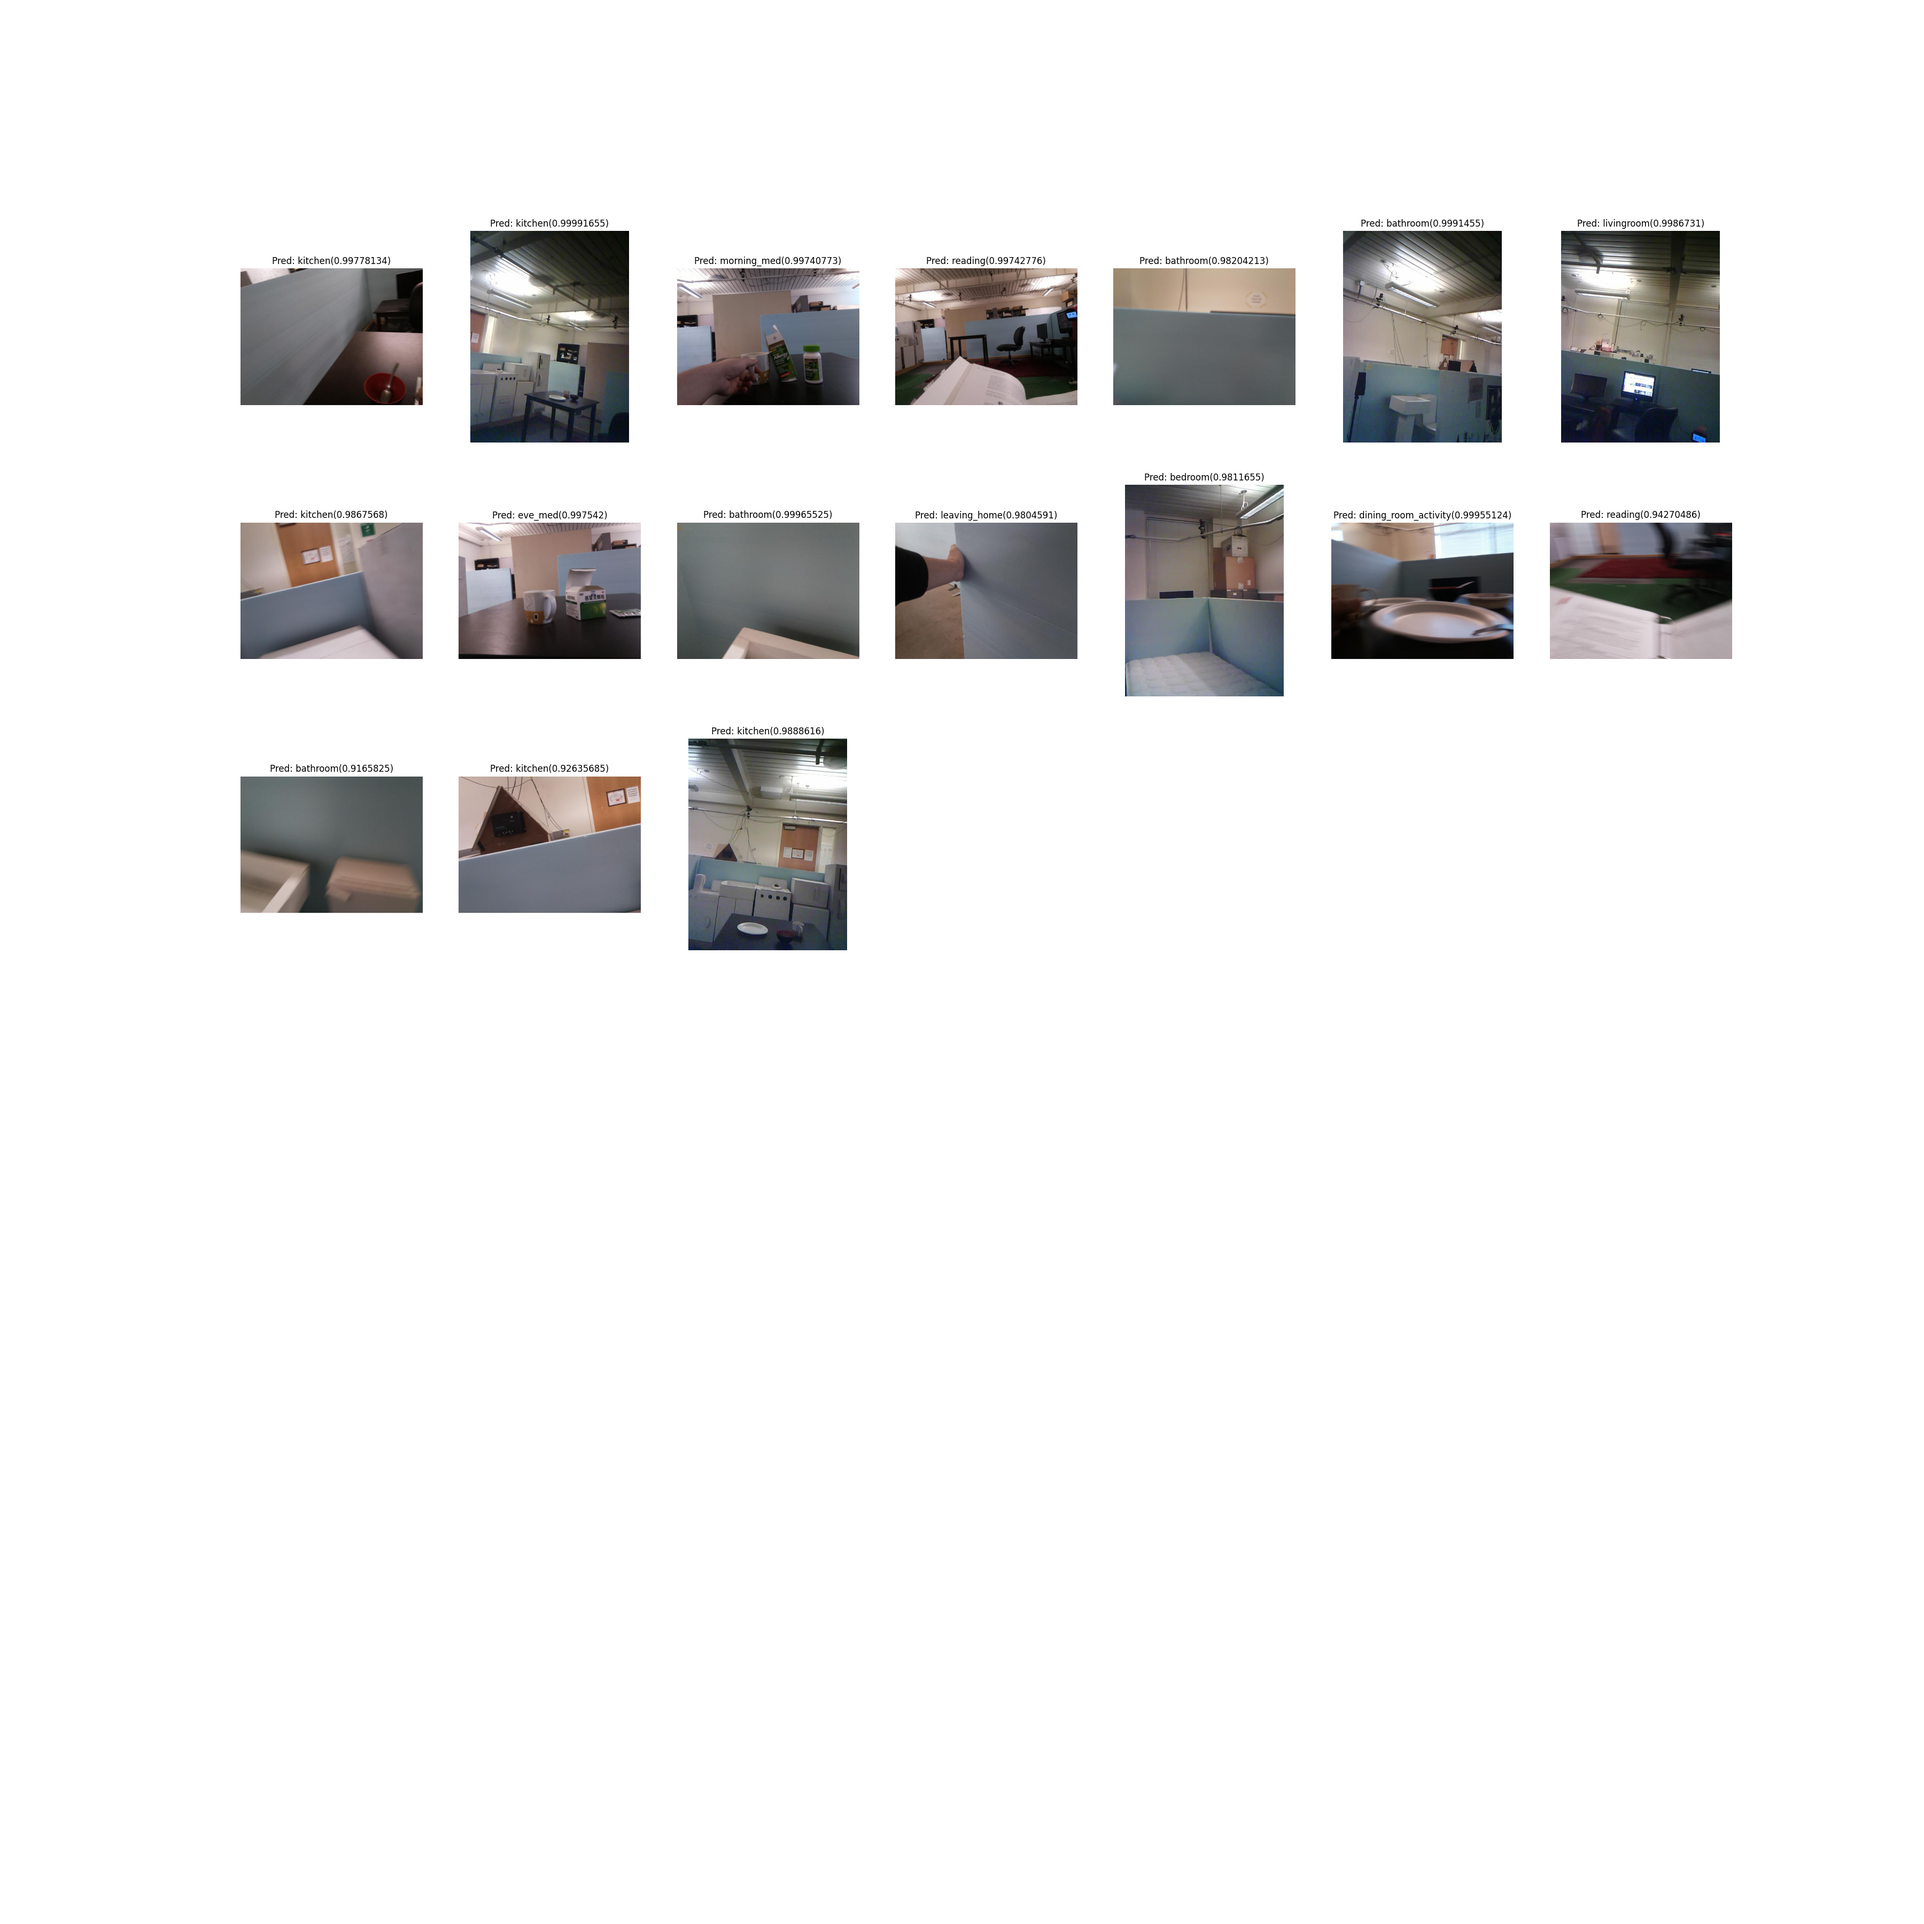
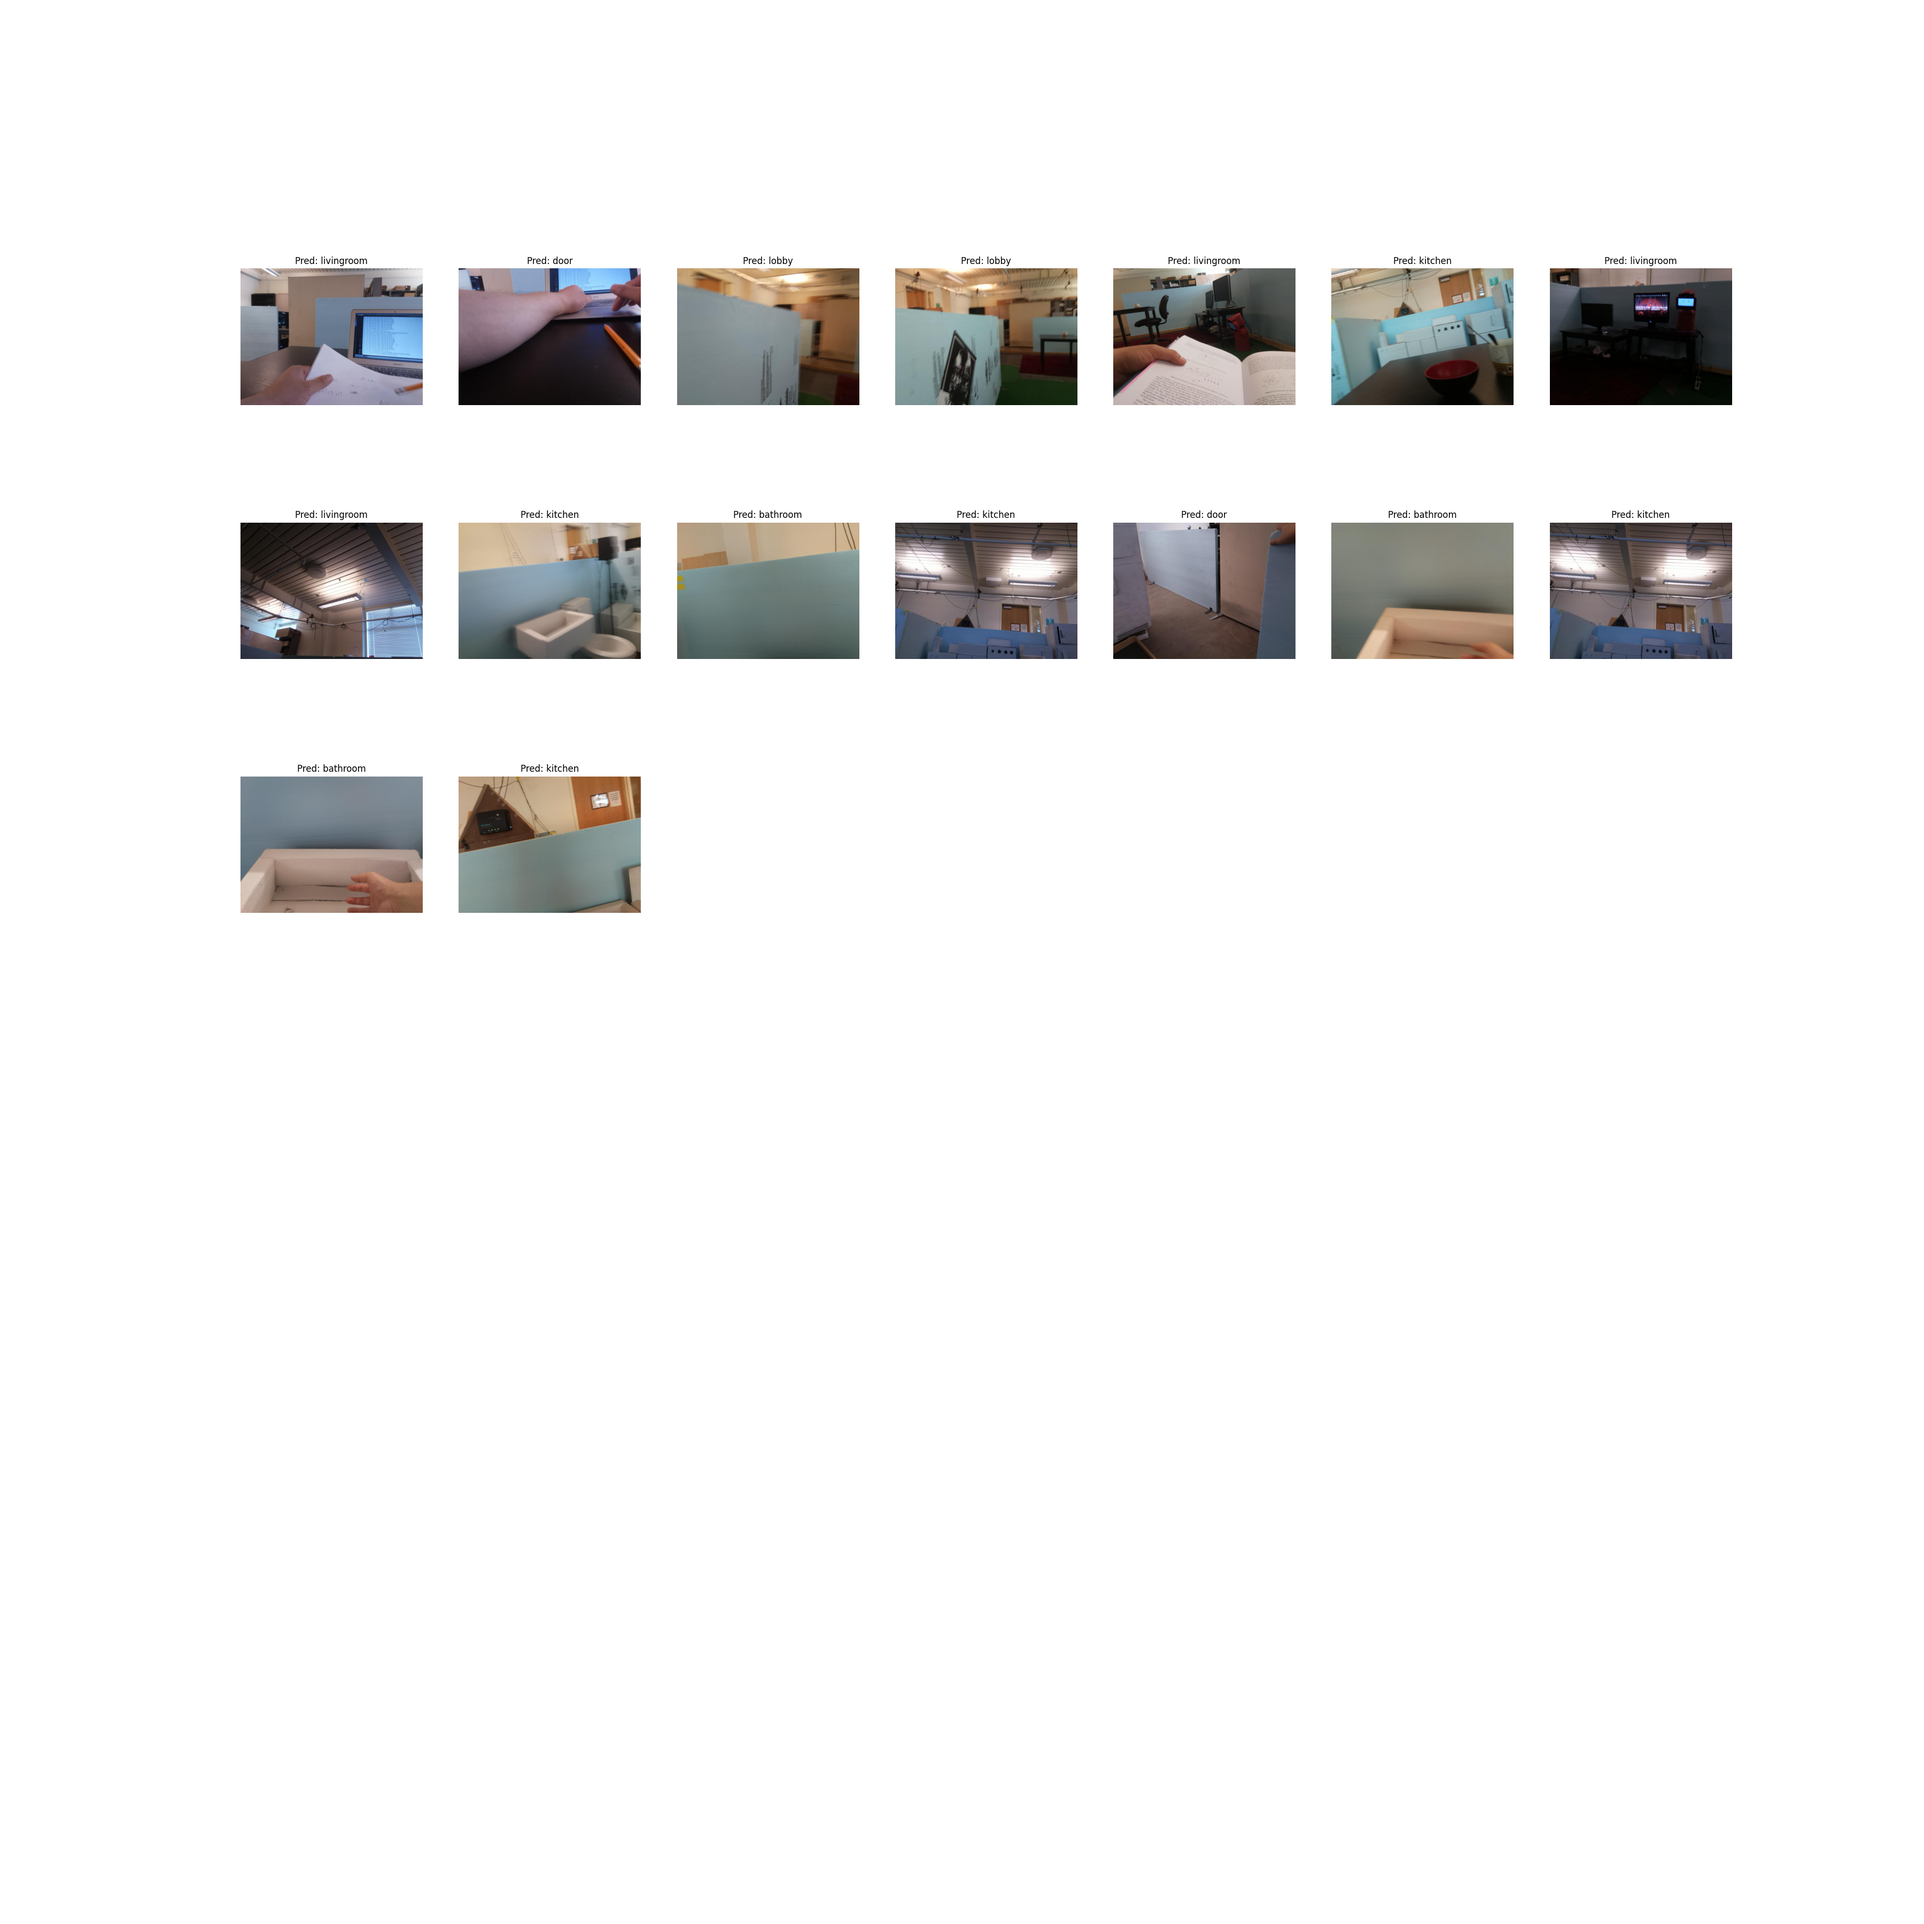
V2 works

Changed region(s): [[0.1244, 0.0933, 0.9022, 0.3733], [0.1244, 0.3733, 0.4667, 0.4978]]

diff --git a/room_classifier/ImageConvert/image_copy.py b/room_classifier/ImageConvert/image_copy.py
@@ -250,15 +250,15 @@ def copy_ascc_act_dir(dir, target_dir, type, copy_flag=False):
     print('count:', count)
 
 
-target_dir = '/home/ascc/Desktop/test_set/'
-dir = '/home/ascc/Desktop/adl_0815/activity_data/'
+# target_dir = '/home/ascc/Desktop/test_set/'
+# dir = '/home/ascc/Desktop/adl_0815/activity_data/'
 # copy_ascc_act_dir(dir,  target_dir, type = 'Motion')
 # copy_ascc_act_dir(dir,  target_dir, type = 'Motion', copy_flag=True)
 # copy_ascc_act_dir(dir,  target_dir, type = 'Audio', copy_flag=True)
-copy_ascc_act_dir(dir,  target_dir, type = 'Image', copy_flag=True)
+# copy_ascc_act_dir(dir,  target_dir, type = 'Image', copy_flag=True)
 
 
-exit(0)
+# exit(0)
 
 #image_rotate(IMAGE_TEST)
 
@@ -280,9 +280,10 @@ image_dir = '/home/ascc/Desktop/data_activity_0217/data_0217/Res_activity/Dining
 image_dest_dir = '/home/ascc/Desktop/data_activity_0217/data_0217/Res_activity/Dining_room_activity_pad'
 image_dir = '/home/ascc/Desktop/data_activity_0217/data_0217/Res_activity/Desk_activity/'
 image_dest_dir = '/home/ascc/Desktop/data_activity_0217/data_0217/Res_activity/Desk_activity_pad'
-image_dir = '/home/ascc/LF_Workspace/Motion-Trigered-Activity/home_room_classification/keras-image-room-clasification/data_activity_0217/data_0808/res_images/'
-image_dest_dir = '/home/ascc/LF_Workspace/Motion-Trigered-Activity/home_room_classification/keras-image-room-clasification/data_activity_0217/data_0808/res_images_pad/'
 
-# count = generate_copy_image_file_from_dir(image_dir, image_dest_dir)
+image_dir = '/home/ascc/Desktop/image_living_bedroom/new_data/bed_rotate/'
+image_dest_dir = '/home/ascc/Desktop/image_living_bedroom/new_data/bed_res/'
+
+count = generate_copy_image_file_from_dir(image_dir, image_dest_dir)
 
 print("Res file count:", count)

diff --git a/room_classifier/room_test.py b/room_classifier/room_test.py
@@ -121,18 +121,13 @@ def predict(file, model, to_class):
 def test():
     # execute this when you want to load the model
     from keras.models import load_model
-    MODEL_SAVED_PATH = 'saved-model'
+    MODEL_SAVED_PATH = 'saved-model2'
 
     ml = load_model(MODEL_SAVED_PATH)
-    # bathroom: 0, bedroom:1, kitchen:2, livingroom:3
-    # Chores:4, Desk_activity:5, Dining_room_activity:6, Eve_Med:7, Leaving_home: 8, Meditate:9, Morning_Med:10, Reading: 11
     
-    # !!!Notice: the list of class_names should correspond to the list of the result of 'ls ./labelled', like '0  1  10  11  2  3  4  5  6  7  8  9'
-    class_names=['bathroom','bedroom', 'morning_med', 'reading', 'kitchen','livingroom', 'chores', 'desk_activity', 'dining_room_activity',
-                 'eve_med', 'leaving_home', 'meditate']
-    
-    class_names=['bathroom','bedroom', 'morning_med', 'reading', 'kitchen','livingroom', 'chores', 'desk_activity', 'dining_room_activity',
-                 'eve_med', 'leaving_home', 'lobby']
+    # bathroom: 0, bedroom:1, kitchen:2, livingroom:3, lobby:4, door:5
+    class_names=['bathroom','bedroom', 'kitchen','livingroom', 'lobby', 'door']
+
 
     import sys, random
     from pathlib import Path

diff --git a/room_classifier/room_classifier_train.py b/room_classifier/room_classifier_train.py
@@ -7,7 +7,12 @@ from keras.applications.xception import Xception, preprocess_input, decode_predi
 import matplotlib.pyplot as plt
 
 
-MAX_EPOCH = 10
+
+# bathroom: 0, bedroom:1, kitchen:2, livingroom:3, lobby:4, door:5
+class_names=['bathroom','bedroom', 'kitchen','livingroom', 'lobby', 'door']
+
+
+MAX_EPOCH = 20
 
 history = ''
 
@@ -111,7 +116,7 @@ def predict(file, model, to_class):
     return to_class[index]
     
 
-DIR = "/home/ascc/LF_Workspace/Motion-Trigered-Activity/home_room_classification/keras-image-room-clasification/src/"
+DIR = "/home/ascc/LF_Workspace/Bayes_model/ADL_HMM_BAYES_V2/ADL_HMM_BAYES/room_classifier/room_dataset/"
 IMG_WIDTH, IMG_HEIGHT = 299, 299 # set this according to keras documentation, each model has its own size
 BATCH_SIZE = 200 # decrease this if your computer explodes
 

diff --git a/room_motion_activity/motion_data_convert.py b/room_motion_activity/motion_data_convert.py
@@ -75,8 +75,8 @@ file_dict_test = {
 
 
 
-MOTION_FOLDER = '/home/ascc/LF_Workspace/Bayes_model/ADL_HMM_BAYES/room_motion_activity/motion_0802/'
-MOTION_FOLDER_TEST = '/home/ascc/LF_Workspace/Bayes_model/ADL_HMM_BAYES/room_motion_activity/motion/test/'
+MOTION_FOLDER = '/home/ascc/LF_Workspace/Bayes_model/ADL_HMM_BAYES_V2/ADL_HMM_BAYES/room_motion_activity/ascc_dataset/motion_0802/'
+MOTION_FOLDER_TEST = './test/'
 
 MOTION_TXT = 'motion.txt'
 sit_path_1 = MOTION_FOLDER + '20220729101522' + '/' + 'motion.txt'

diff --git a/room_classifier/ImageConvert/image_rotate.py b/room_classifier/ImageConvert/image_rotate.py
@@ -156,5 +156,6 @@ def get_rotate_file_from_dir(dir):
 
 # count = get_file_count_of_dir(IMAGE_DIR)
 # count = get_rotate_file_of_dir(IMAGE_DIR, IMAGE_SAVE_DIR)
+IMAGE_DIR = "/home/ascc/Desktop/image_living_bedroom/new_data/images/"
 count = get_rotate_file_from_dir(IMAGE_DIR)
 print("Rotate file count:", count)
